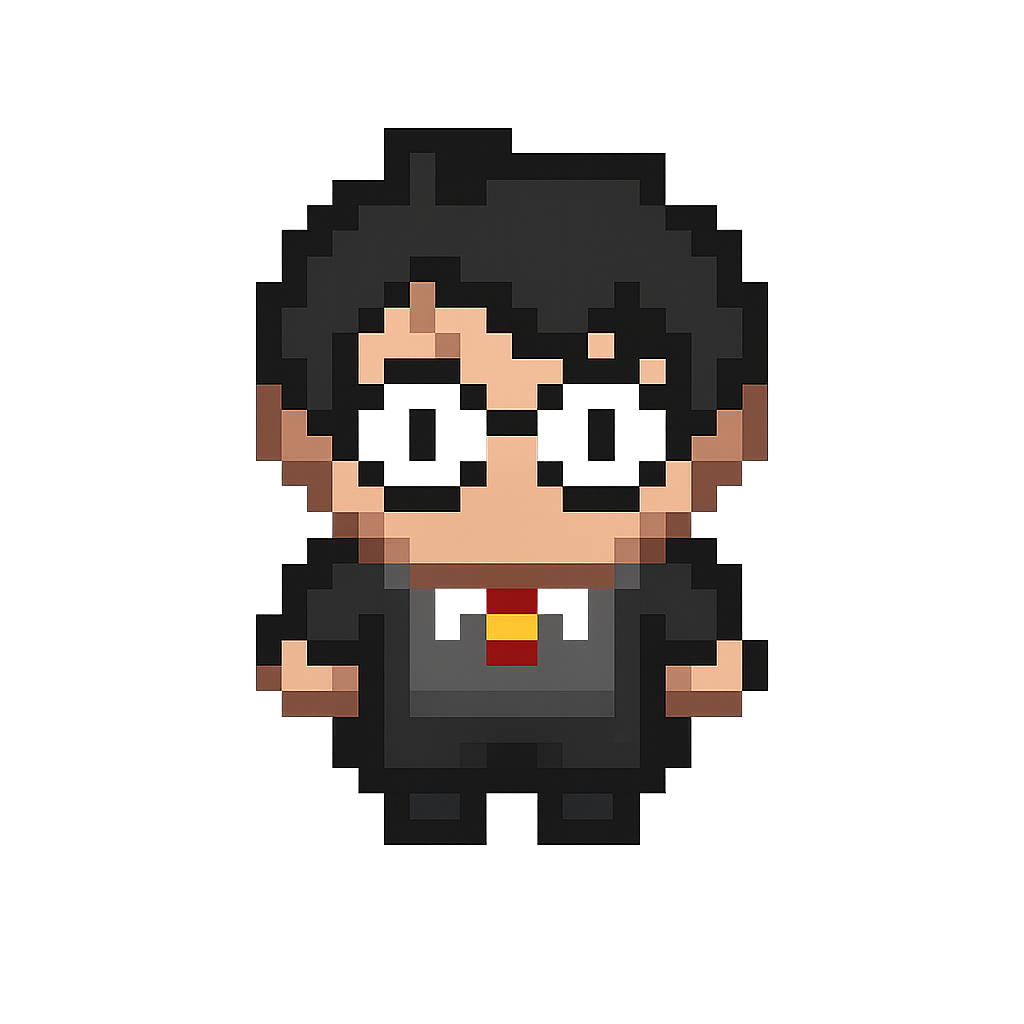
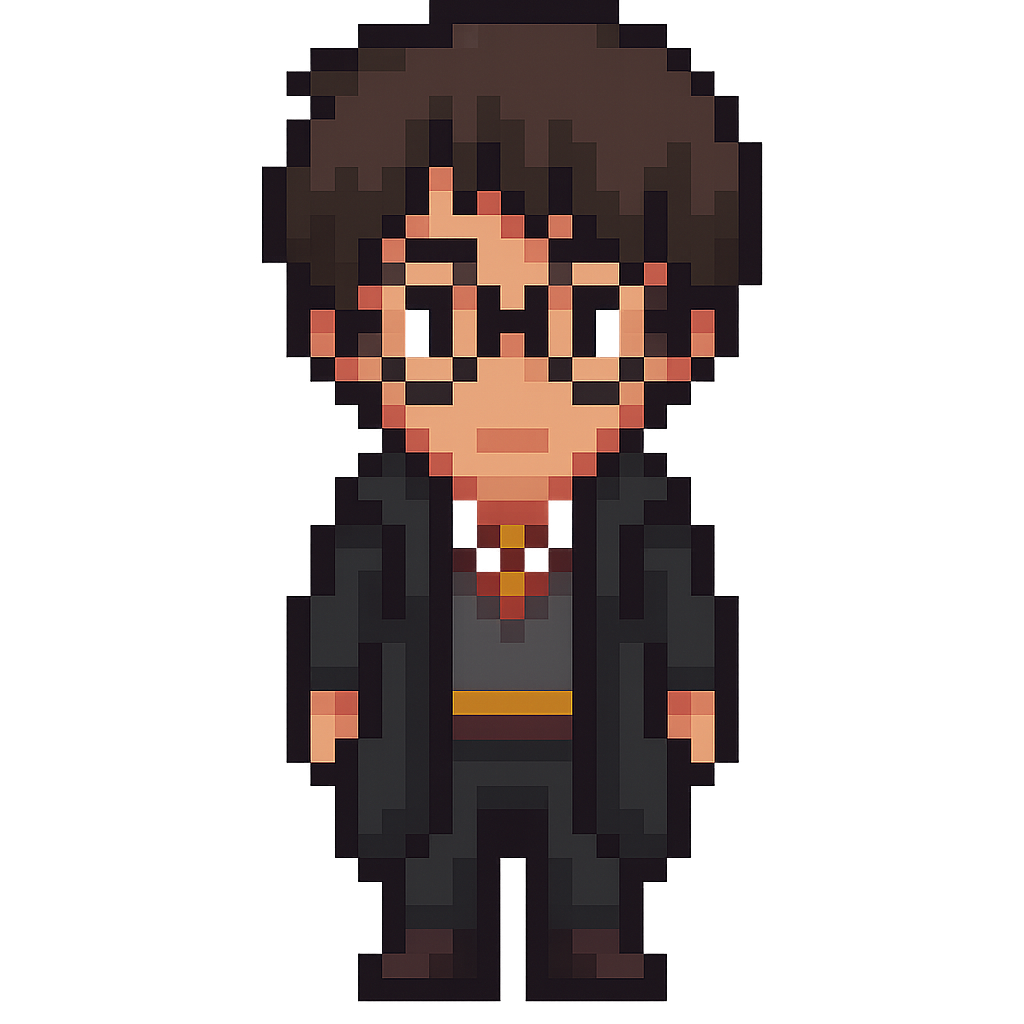
replace harry

diff --git a/js/game.js b/js/game.js
@@ -23,7 +23,7 @@ window.onload = () => {
 
   wallImage = loadImage('./assets/walls.png');
   floorImage = loadImage('./assets/floor.png');
-  harryImage = loadImage('./assets/harry1.png');
+  harryImage = loadImage('./assets/harry.png');
   tomImage = loadImage('./assets/tom.png');
   snakeImage = loadImage('./assets/snake.png');
   diademImage = loadImage('./assets/diadem.png');
